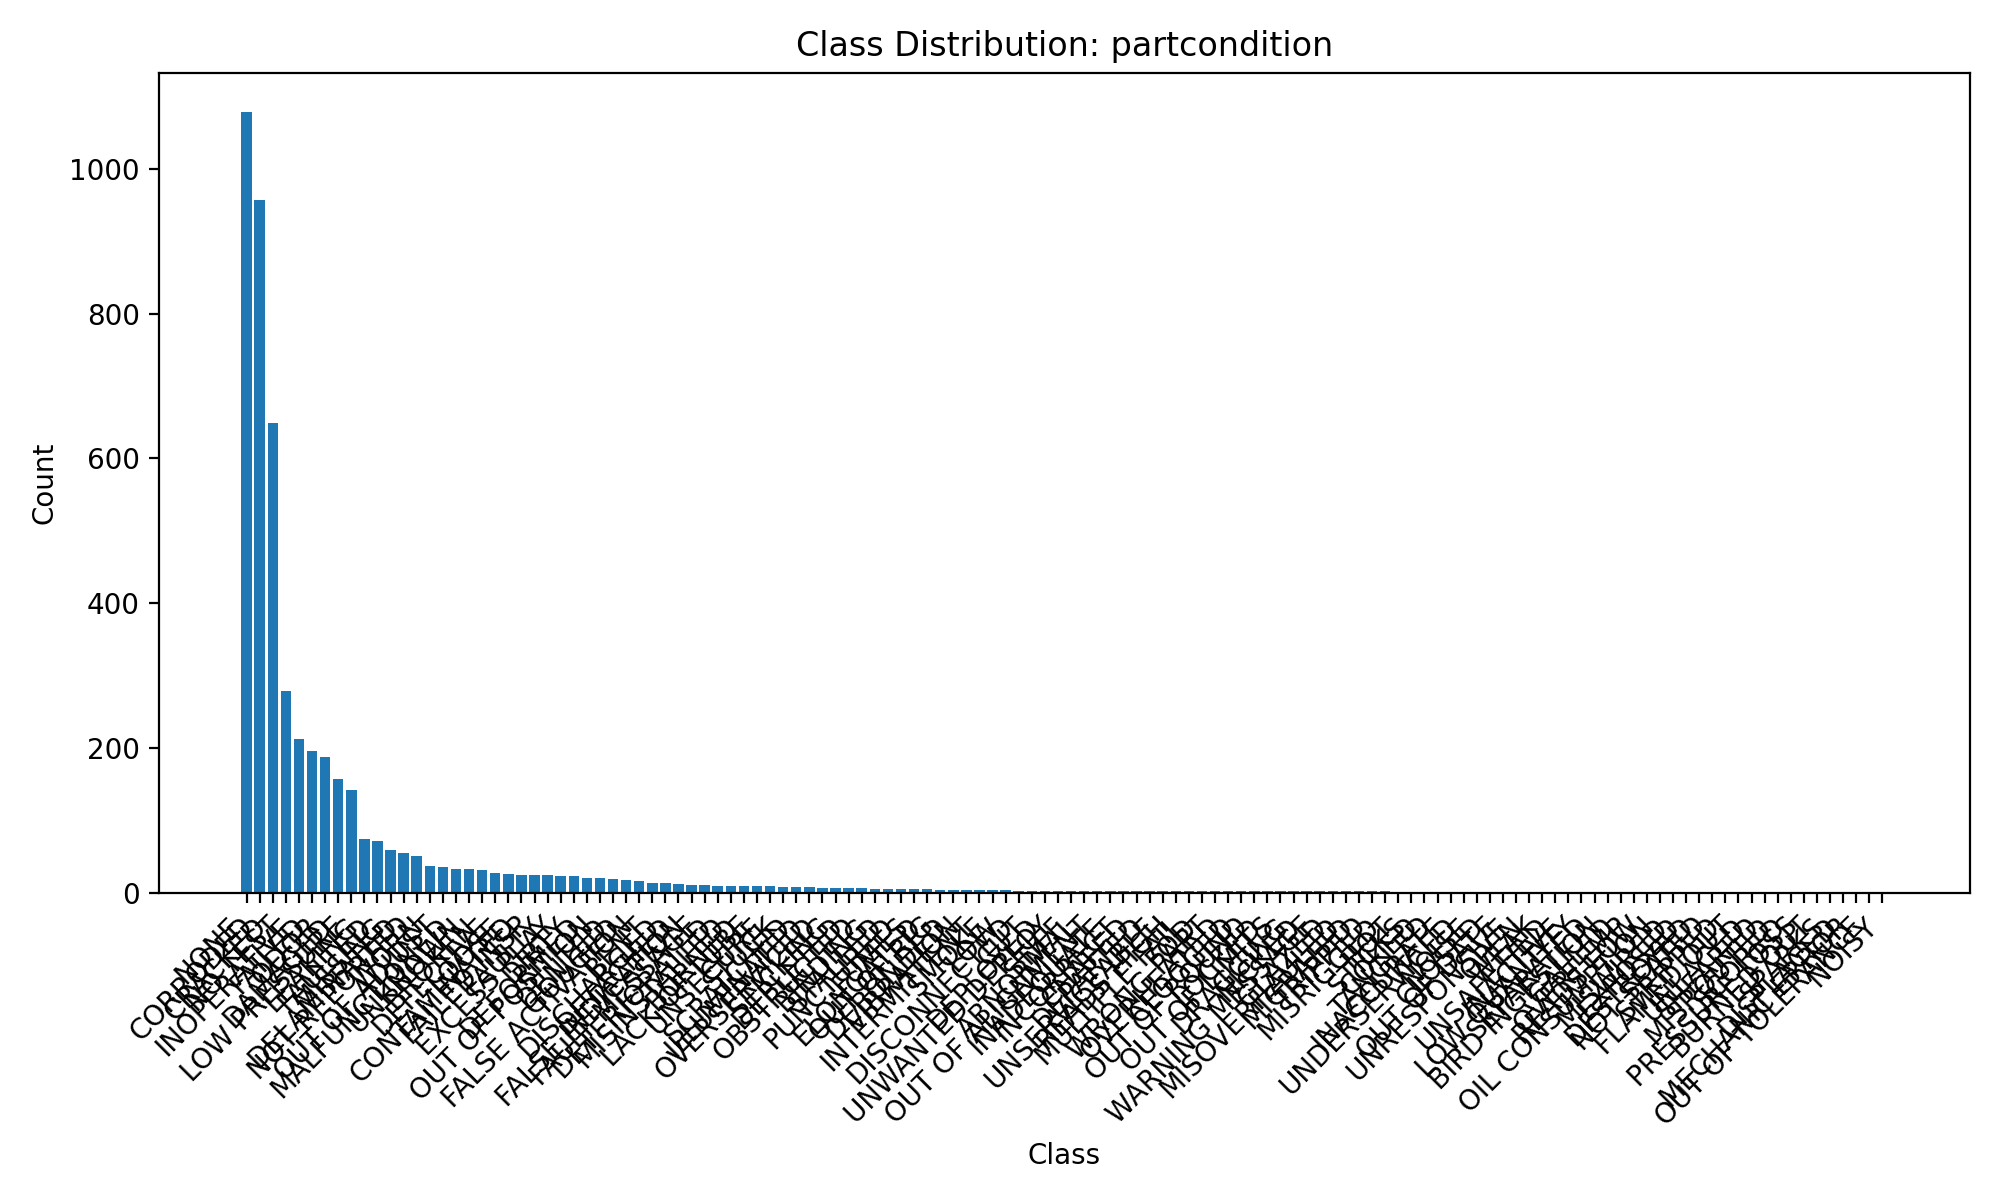
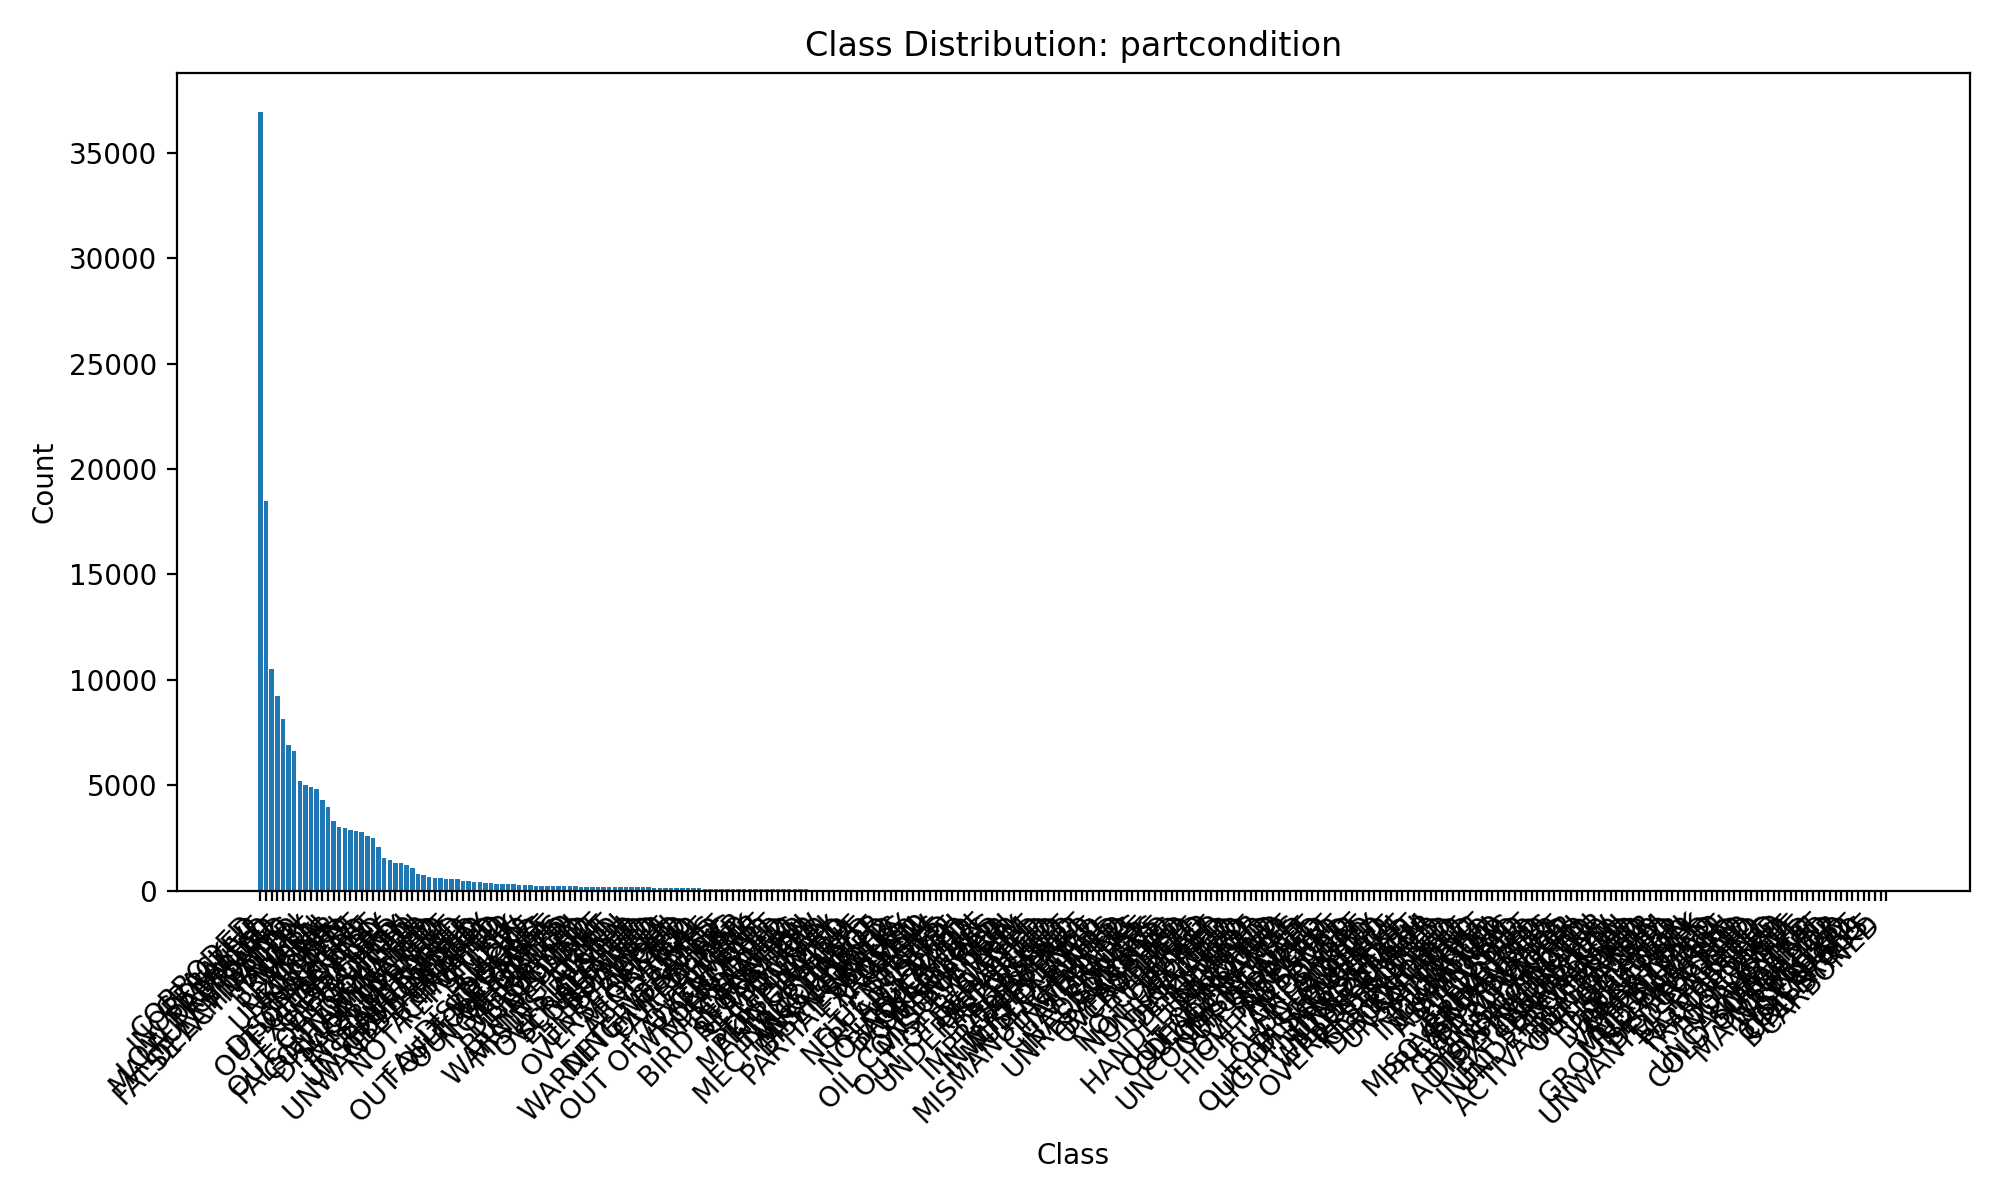
:bug: fix: Bug in `ingest.py` where if any null value exists in a row of required column it throws a error

Changed region(s): [[0.0, 0.0617, 0.992, 0.925], [0.403, 0.0308, 0.682, 0.0617], [0.527, 0.9558, 0.558, 0.9867]]

diff --git a/ml/src/ingestion/ingest.py b/ml/src/ingestion/ingest.py
@@ -82,9 +82,7 @@ def validate_data(df: pd.DataFrame) -> None:
     if missing_columns:
         raise ValueError(f"Missing required columns: {missing_columns}")
     
-    # Check for null values in required columns
-    if df[REQUIRED_COLUMNS].isnull().any().any():
-        raise ValueError("Some required columns contain null values. No valid data to process.")
+    # Nulls are handled in ingest_data by dropping invalid rows.
     
 
 # ==================================
@@ -155,8 +153,16 @@ def ingest_data(file_path: str) -> pd.DataFrame:
     # Load the data
     df = load_data(file_path)
 
-    # Validate the data
+    # Validate basic structure and required columns
     validate_data(df)
+
+    # Keep only rows that contain all required values.
+    # This prevents a full pipeline failure when only a subset is invalid.
+    df = df.dropna(subset=REQUIRED_COLUMNS)
+    if df.empty:
+        raise ValueError(
+            "Some required columns contain null values. No valid data to process."
+        )
 
     # Standardise column names
     df = standardise_columns(df)

diff --git a/ml/src/utils/paths.py b/ml/src/utils/paths.py
@@ -7,4 +7,4 @@ RAW_DIR = DATA_DIR / "raw"
 CLEAN_DIR = DATA_DIR / "clean"
 PROCESSED_DIR = DATA_DIR / "processed"
 
-RAW_FILE = RAW_DIR / "NLP_Dataset_2026.xlsx"
+RAW_FILE = RAW_DIR / "NLP_Dataset_2026_Expanded.xlsx"
